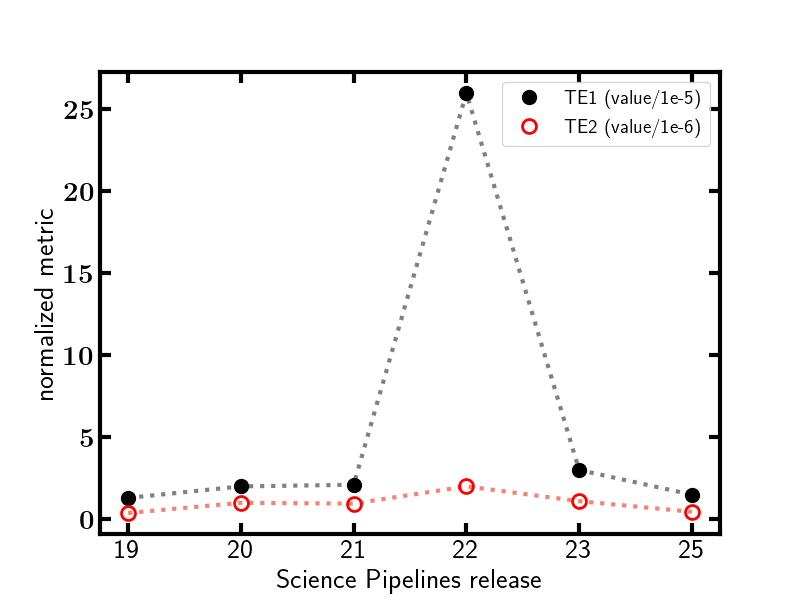
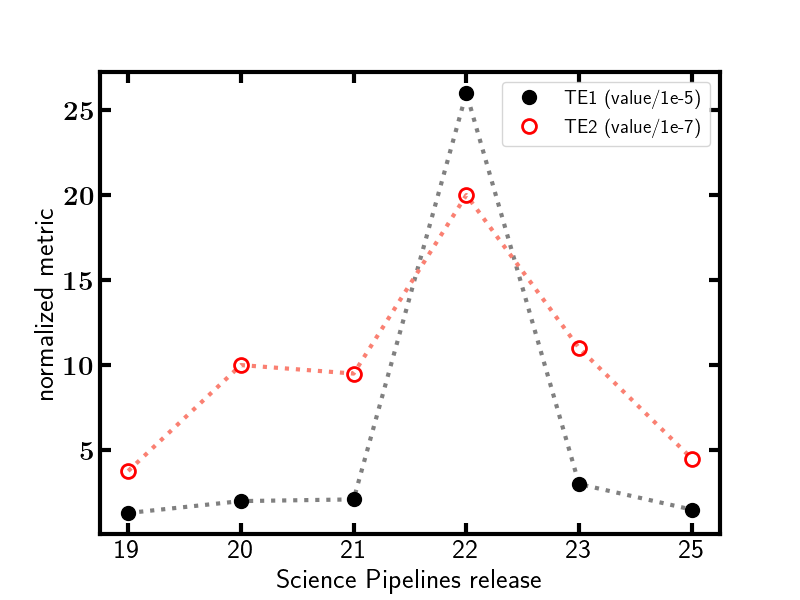
Update figure captions

diff --git a/DMTR-392.tex b/DMTR-392.tex
@@ -72,7 +72,7 @@ Because there have been no major changes in the data processing algorithms in th
 \begin{figure}[!t]
   \centering
   \includegraphics[width=0.6\textwidth, trim=0.0in 0.0in 0.0in 0.0in, clip]{figures/photom_metrics_v25.png}
-  \caption{Phot metrics}
+  \caption{Photometry metrics PA1 (photometric repeatability) and PF1 (percentage of measurements exceeding the outlier threshold) measured in the $r$-band. The figure shows the values of these metrics as measured in versions 19-25 of the LSST Science Pipelines. These metrics do not show significant changes between the previous release (v23) and the current one (v25).}
   \label{fig:phot_metrics}
 \end{figure}
 
@@ -278,7 +278,7 @@ PF1: \emph{y}\strut
   \centering
   \includegraphics[width=0.475\textwidth, trim=0.0in 0.0in 0.0in 0.0in, clip]{figures/astrom_metrics_v25.png}
   \includegraphics[width=0.475\textwidth, trim=0.0in 0.0in 0.0in 0.0in, clip]{figures/astrom_outlier_metrics_v25.png}
-  \caption{Astrom metrics}
+  \caption{Astrometry metrics measured on $r$-band images compared over the past few major pipelines releases. \textit{Left: } Median astrometric measurement error on 5-arcminute scales (AM1) and 20-arcminute scales (AM2). \textit{Right: } Fraction of astrometric measurements exceeding the outlier threshold on 5-arcminute (AF1) and 20-arcminute (AF2) scales. None of these metrics show significant changes since the previous release. }
   \label{fig:astrom_metrics}
 \end{figure}
 
@@ -862,7 +862,7 @@ mas\strut
 \begin{figure}[!t]
   \centering
   \includegraphics[width=0.6\textwidth, trim=0.0in 0.0in 0.0in 0.0in, clip]{figures/ellip_metrics_v25.png}
-  \caption{Ellip metrics}
+  \caption{Median ellipticity residual correlations at 1-arcminute (TE1; normalized by a factor of $1\times10^{-5}$) and 5-arcminute (TE2; normalized by $1\times10^{-7}$) scales, as measured on $r$-band images, compared over the past few major pipelines releases. These metrics do not show significant changes since the previous release. }
   \label{fig:ellip_metrics}
 \end{figure}
 
